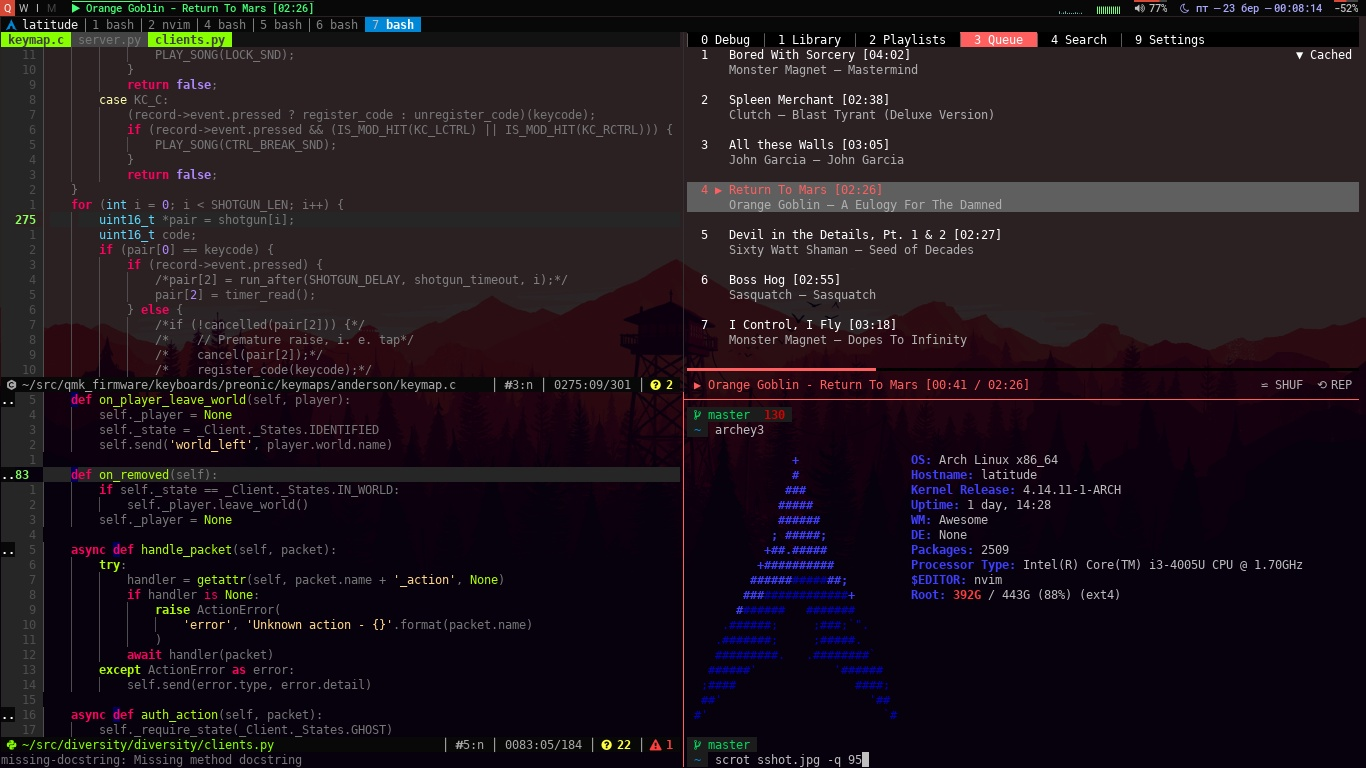
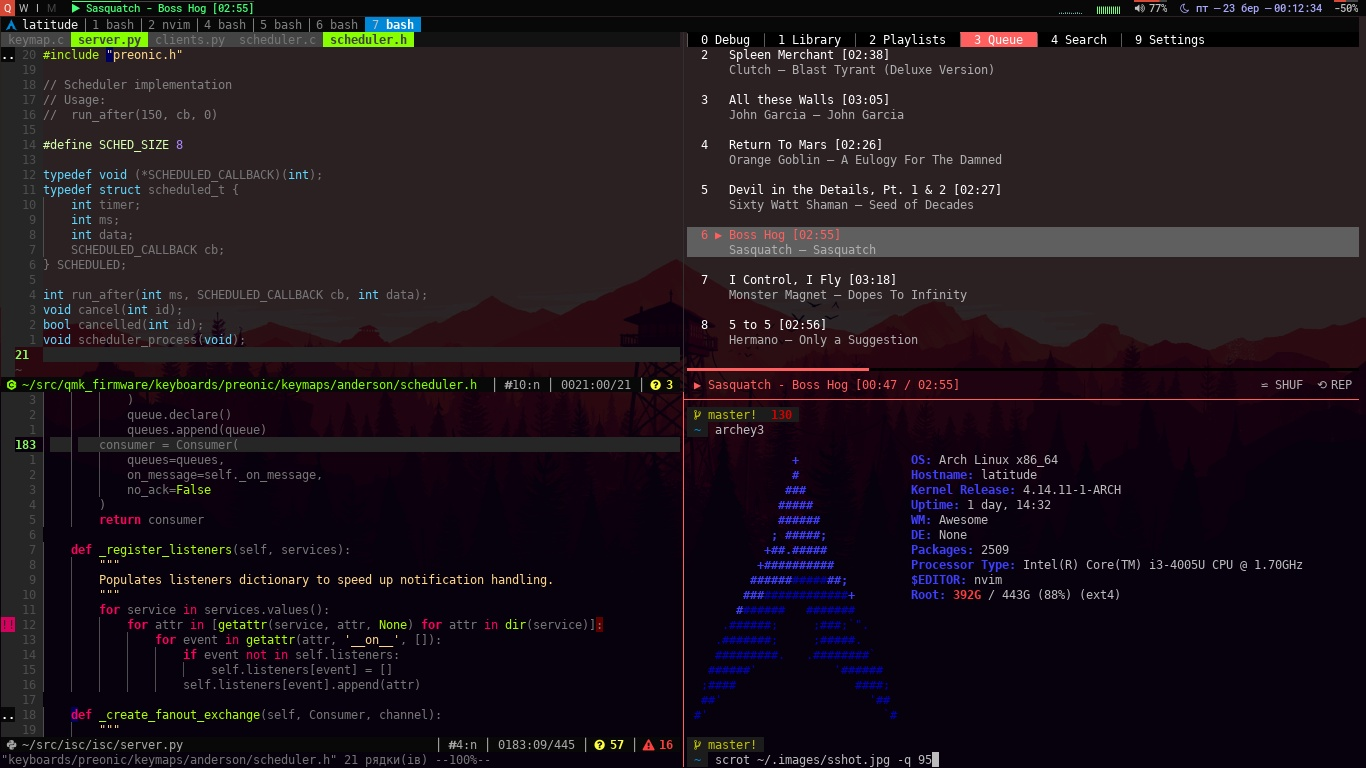
Updated screenshot.

diff --git a/README.md b/README.md
@@ -1,6 +1,6 @@
 # dotfiles
 
-![Screenshot](./.images/sshot.jpg?1)
+![Screenshot](./.images/sshot.jpg?2)
 
 Those are my dotfiles.
 
